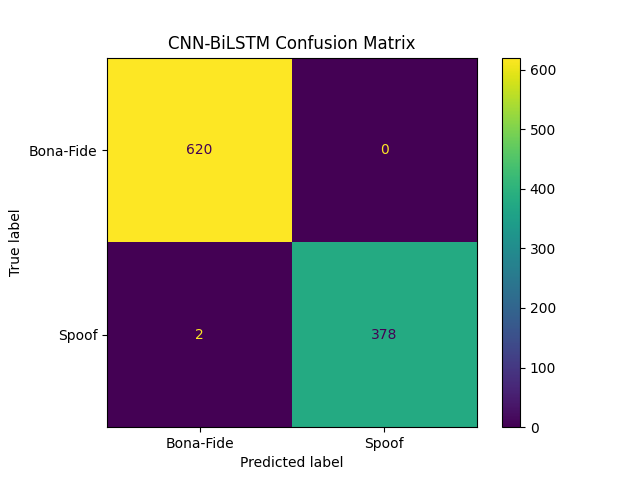
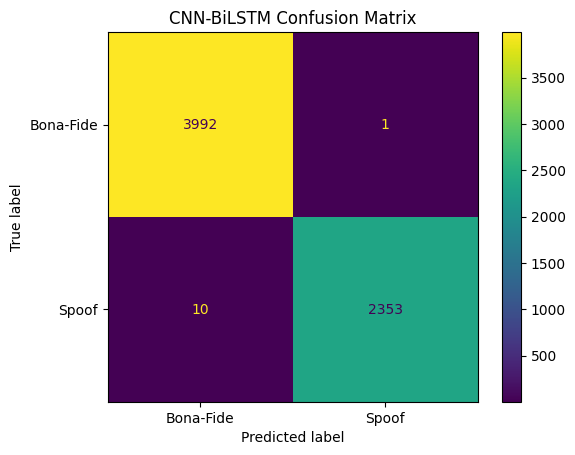
Added evaluation script and results

diff --git a/evaluate.py b/evaluate.py
@@ -37,8 +37,10 @@ df = load_metadata(DATASET_PATH)
 
 train_df, test_df = split_data(df)
 
-# Same subset used during training
-test_df = test_df.head(1000)
+print("\nDataset Split")
+print("Total Samples :", len(df))
+print("Train Samples :", len(train_df))
+print("Test Samples  :", len(test_df))
 
 # --------------------------------
 # Feature Extraction
@@ -47,7 +49,7 @@ test_df = test_df.head(1000)
 X_test = []
 y_test = []
 
-print("Extracting MFCC features...")
+print("\nExtracting MFCC features...")
 
 for _, row in test_df.iterrows():
 
@@ -94,17 +96,22 @@ model = tf.keras.models.load_model(
 # Prediction
 # --------------------------------
 
-print("Generating predictions...")
+print("\nGenerating predictions...")
 
 pred_probs = model.predict(
-    X_test
+    X_test,
+    verbose=1
 )
+
+pred_probs = pred_probs.flatten()
+
+print("\nProbability Range")
+print("Minimum:", pred_probs.min())
+print("Maximum:", pred_probs.max())
 
 preds = (
     pred_probs > 0.5
 ).astype(int)
-
-preds = preds.flatten()
 
 # --------------------------------
 # Metrics
@@ -152,6 +159,9 @@ cm = confusion_matrix(
     preds
 )
 
+print("\nConfusion Matrix")
+print(cm)
+
 disp = ConfusionMatrixDisplay(
     confusion_matrix=cm,
     display_labels=[
@@ -167,7 +177,8 @@ plt.title(
 )
 
 plt.savefig(
-    "results/confusion_matrix.png"
+    "results/confusion_matrix.png",
+    bbox_inches="tight"
 )
 
 plt.close()
@@ -210,12 +221,12 @@ plt.title(
 plt.legend()
 
 plt.savefig(
-    "results/roc_curve.png"
+    "results/roc_curve.png",
+    bbox_inches="tight"
 )
 
 plt.close()
 
 print("\nResults saved successfully.")
-
 print("results/confusion_matrix.png")
 print("results/roc_curve.png")
